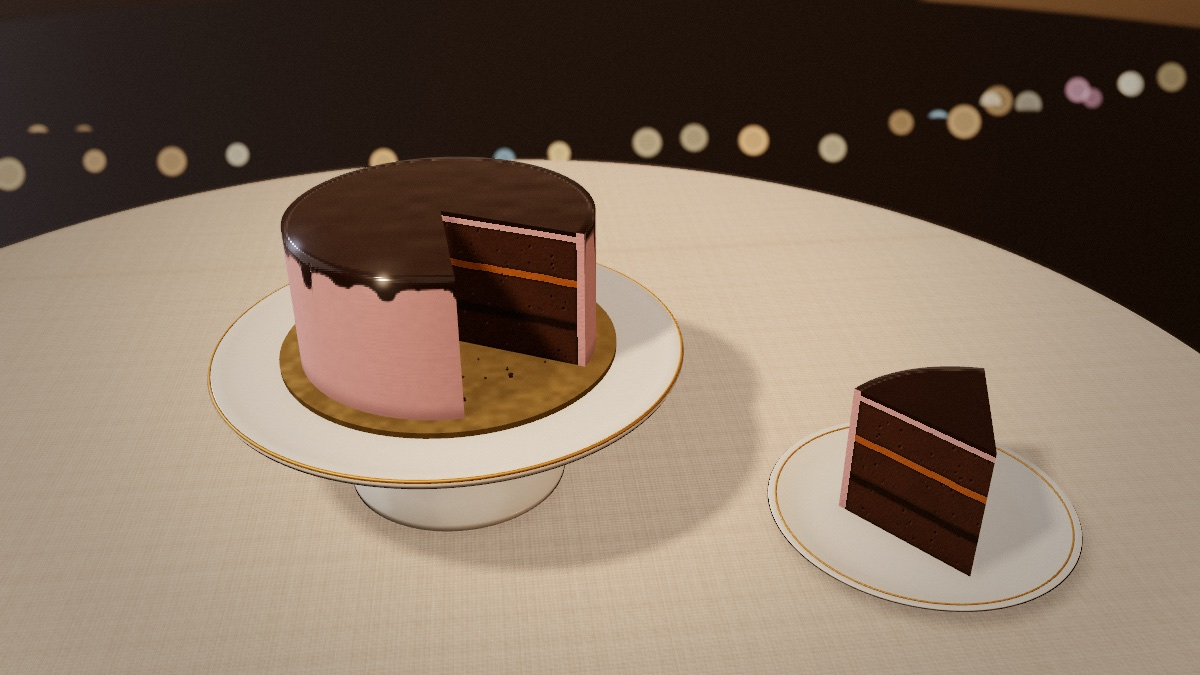
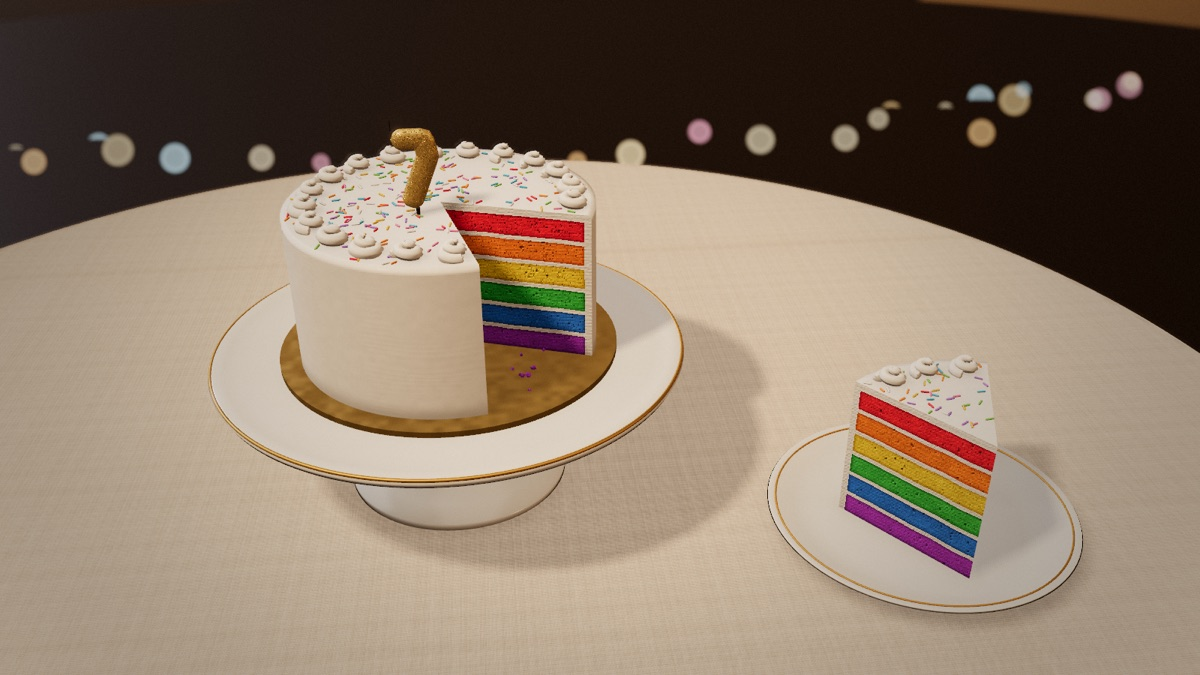
feat(cake-cut): phone order cards, reveal slide, settling confetti, new cover
Orders fit three-across on phones and stack down the left in landscape.
A fresh cut slides open briefly so the split reads, confetti settles on
the cake top, fair accuracy is stricter, and the cover shows a cut
rainbow cake with a slice served. AGENTS.md notes the debug switches.

diff --git a/games/cake-cut/src/main.js b/games/cake-cut/src/main.js
@@ -108,7 +108,7 @@ class App {
     this.crumbs = new Crumbs(q.crumbs, (x, z) => this.supportAt(x, z));
     scene.add(this.crumbs.mesh);
     this.smoke = new Smoke(scene);
-    this.confetti = new Confetti(REDUCED_MOTION.matches ? Math.round(q.confetti / 3) : q.confetti, (x, z) => this.supportAt(x, z));
+    this.confetti = new Confetti(REDUCED_MOTION.matches ? Math.round(q.confetti / 3) : q.confetti, (x, z) => this.supportAt(x, z, true));
     scene.add(this.confetti.mesh);
     this.sparkles = new Sparkles();
     scene.add(this.sparkles.points);
@@ -518,13 +518,14 @@ class App {
       const dur = this.audio.birthday();
       const c = this.mount.getWorldPosition(new THREE.Vector3());
       const n = Math.round(this.confetti.max / 4);
+      // party poppers held up round the table
       for (const [x, z] of [
-        [-0.45, 0.25],
-        [0.5, 0.2],
-        [-0.35, -0.35],
-        [0.4, -0.35],
+        [-0.36, 0.22],
+        [0.4, 0.18],
+        [-0.3, -0.3],
+        [0.34, -0.3],
       ]) {
-        this.confetti.burst(new THREE.Vector3(x, 0.02, z), c, n);
+        this.confetti.burst(new THREE.Vector3(x, 0.16, z), c, n);
       }
       for (let i = 0; i < 6; i++) this.sparkles.emit(c.clone().add(new THREE.Vector3(rand(-0.1, 0.1), this.cake.height + 0.05, rand(-0.1, 0.1))), 4, 0.4);
       this.after(Math.min(2.4, dur * 0.25), () => {
@@ -563,8 +564,9 @@ class App {
     }
     let dev = 0;
     for (let i = 0; i < pieces.length; i++) dev += i < N ? Math.abs(pieces[i] - 1 / N) : pieces[i];
-    const acc = Math.max(0, Math.round((1 - dev / 2) * 1000) / 10);
-    const stars = acc >= 96 ? 3 : acc >= 90 ? 2 : acc >= 80 ? 1 : 0;
+    // every bit of cake given to the wrong guest counts against the score
+    const acc = Math.max(0, Math.round((1 - dev) * 1000) / 10);
+    const stars = acc >= 95 ? 3 : acc >= 88 ? 2 : acc >= 75 ? 1 : 0;
     const key = `mini-games.cake-cut.fair.${N}`;
     const prev = Number(store(key)) || 0;
     if (acc > prev) store(key, acc);
@@ -638,6 +640,7 @@ class App {
   startRush() {
     const pick = (a) => a[Math.floor(Math.random() * a.length)];
     const recipe = pick(CAKES.filter((c) => !this.recipe || c.id !== this.recipe.id));
+    if (!this.savedDecor) this.savedDecor = this.decor;
     this.decor = { ...this.defaultDecor(recipe), message: '' };
     this.decor.candles.kind = 'none';
     this.buildCake({ candles: false });
@@ -815,11 +818,15 @@ class App {
     this.ui.hint('Photo saved');
   }
 
-  // Height of whatever a crumb would land on, in world space.
-  supportAt(x, z) {
+  // Height of whatever a crumb would land on, in world space. Confetti
+  // (`onTop`) also settles on the top of the cake.
+  supportAt(x, z, onTop = false) {
     const r = Math.hypot(x, z);
     if (r < 0.155) {
       const local = this.mount.worldToLocal(new THREE.Vector3(x, MOUNT_Y, z));
+      if (onTop && this.cake && this.cake.outline.sdf(local.x, local.z) < -0.002 && !this.cake.isRemoved([local.x, local.z])) {
+        return MOUNT_Y + this.cake.topAt(local.x, local.z);
+      }
       const onBoard = this.cake && this.cake.outline.sdf(local.x, local.z) < 0.014;
       return onBoard ? MOUNT_Y : STAND_TOP;
     }
@@ -973,6 +980,11 @@ class App {
     if (mode === 'rush') this.startRush();
     else {
       this.rush = null;
+      // back to the player's own cake after a party rush
+      if (this.savedDecor) {
+        this.decor = this.savedDecor;
+        this.savedDecor = null;
+      }
       this.openDecorate();
     }
   }

diff --git a/games/cake-cut/src/cake.js b/games/cake-cut/src/cake.js
@@ -22,6 +22,8 @@ import { createExteriorMaterial, createInteriorMaterial, createSlitUniforms, tie
 
 const SLIT_HALF = 0.0012; // half the width of the gap a blade leaves
 const GAP = 0.0016; // how far a separated piece drifts from its neighbours
+const REVEAL = 0.017; // how far a newly cut piece slides out to show its inside
+const REVEAL_HOLD = 1.5; // seconds it stays out before settling back
 const UP = new THREE.Vector3(0, 1, 0);
 
 export class Cake {
@@ -89,7 +91,8 @@ export class Cake {
     const ux = dx / len;
     const uz = dz / len;
     if (chord) {
-      const far = this.outline.extent * 3;
+      // reach right across the cake from wherever the stroke began
+      const far = Math.hypot(a[0], a[1]) + this.outline.extent * 2;
       const seg = clipSegment([a[0] - ux * far, a[1] - uz * far], [a[0] + ux * far, a[1] + uz * far], this.outline);
       return seg && Math.hypot(seg[1][0] - seg[0][0], seg[1][1] - seg[0][1]) > 0.01 ? seg : null;
     }
@@ -169,6 +172,9 @@ export class Cake {
         group: new THREE.Group(),
         offset: prev ? prev.offset.clone() : new THREE.Vector3(),
         target: new THREE.Vector3(),
+        prevFrac: prev ? prev.frac : null,
+        dir: [0, 0],
+        reveal: 0,
         decorations: [],
       };
       next.push(piece);
@@ -191,8 +197,12 @@ export class Cake {
     for (const p of onCake) {
       const c = p.centroid;
       const d = Math.hypot(c[0], c[1]);
-      if (onCake.length === 1 || (p === biggest && p.frac > 0.5) || d < 1e-4) p.target.set(0, 0, 0);
-      else p.target.set((c[0] / d) * GAP, 0, (c[1] / d) * GAP);
+      const still = onCake.length === 1 || (p === biggest && p.frac > 0.5) || d < 1e-4;
+      p.dir = still ? [0, 0] : [c[0] / d, c[1] / d];
+      // a piece the blade has just cut free slides out to show its layers
+      const fresh = p.prevFrac !== null && Math.abs(p.prevFrac - p.frac) > 1e-3;
+      p.reveal = !still && fresh && p.frac < 0.5 ? REVEAL_HOLD + 0.8 : 0;
+      p.target.set(p.dir[0] * GAP, 0, p.dir[1] * GAP);
       p.group.position.copy(p.offset);
     }
     this.assignDecorations();
@@ -475,9 +485,17 @@ export class Cake {
 
   update(dt) {
     const k = 1 - Math.exp(-dt * 14);
+    const slow = 1 - Math.exp(-dt * 7);
     for (const p of this.pieces) {
       if (p.state !== 'on') continue;
-      p.offset.lerp(p.target, k);
+      if (p.reveal > 0) {
+        // out, hold, then ease back to its place
+        p.reveal = Math.max(0, p.reveal - dt);
+        const out = Math.min(1, p.reveal / 0.8);
+        const d = GAP + REVEAL * out * out * (3 - 2 * out);
+        p.target.set(p.dir[0] * d, 0, p.dir[1] * d);
+      }
+      p.offset.lerp(p.target, p.reveal > 0 ? slow : k);
       p.group.position.copy(p.offset);
     }
   }

diff --git a/games/cake-cut/src/fx.js b/games/cake-cut/src/fx.js
@@ -206,6 +206,8 @@ export class Smoke {
 const CONFETTI_COLOURS = ['#f25f7a', '#f7c948', '#5ec2e8', '#8fd46a', '#b58be8', '#ff9d4d', '#fdf6ec', '#e6c07a'];
 
 // Paper and foil confetti that tumbles, flutters down and settles.
+const H_DRAG = 1.6; // sideways drag on confetti
+
 export class Confetti {
   constructor(max, supportAt) {
     this.max = max;
@@ -230,10 +232,10 @@ export class Confetti {
     for (let k = 0; k < n; k++) {
       const i = this.next;
       this.next = (this.next + 1) % this.max;
-      const speed = 2.2 + Math.random() * 1.6;
-      const v = new THREE.Vector3((dir.x / flat) * 0.9 + (Math.random() - 0.5) * 0.9, 2.2 + Math.random() * 1.4, (dir.z / flat) * 0.9 + (Math.random() - 0.5) * 0.9)
-        .normalize()
-        .multiplyScalar(speed);
+      // aimed so the paper spreads from short of the target to beyond it
+      const reach = flat * H_DRAG * (0.45 + Math.random() * 1.1);
+      const side = (Math.random() - 0.5) * 0.9;
+      const v = new THREE.Vector3((dir.x / flat) * reach - (dir.z / flat) * side, 1.5 + Math.random() * 1.1, (dir.z / flat) * reach + (dir.x / flat) * side);
       this.items[i] = {
         p: from.clone(),
         v,
@@ -257,18 +259,27 @@ export class Confetti {
 
   update(dt) {
     if (!this.items.length) return;
+    this.tick = (this.tick || 0) + 1;
     for (let i = 0; i < this.items.length; i++) {
       const c = this.items[i];
       if (!c) continue;
       c.age += dt;
+      // paper resting up on the cake falls again if its slice is taken away
+      if (c.rest && c.p.y > 0.12 && (i + this.tick) % 8 === 0 && this.supportAt(c.p.x, c.p.z) + 0.003 < c.p.y) {
+        c.rest = false;
+        c.v.set(0, 0, 0);
+      }
       if (!c.rest) {
         c.v.y -= 9.8 * dt;
         // paper falls slowly: strong drag, and it flutters side to side
-        const drag = c.v.y < 0 ? 5.5 : 1.2;
-        c.v.multiplyScalar(Math.exp(-dt * drag));
+        c.v.y *= Math.exp(-dt * (c.v.y < 0 ? 26 : 2.2));
+        const h = Math.exp(-dt * H_DRAG);
+        c.v.x *= h;
+        c.v.z *= h;
         c.p.addScaledVector(c.v, dt);
-        c.p.x += Math.sin(c.age * 7 + c.phase) * 0.12 * dt;
-        c.p.z += Math.cos(c.age * 5 + c.phase) * 0.1 * dt;
+        const flutter = c.v.y < 0 ? 1 : 0.3;
+        c.p.x += Math.sin(c.age * 6 + c.phase) * 0.16 * flutter * dt;
+        c.p.z += Math.cos(c.age * 4.3 + c.phase) * 0.13 * flutter * dt;
         c.rot.x += c.spin.x * dt;
         c.rot.y += c.spin.y * dt;
         c.rot.z += c.spin.z * dt;

diff --git a/games/cake-cut/style.css b/games/cake-cut/style.css
@@ -976,7 +976,12 @@ legend small {
   font-size: clamp(24px, 5vw, 38px);
   text-shadow: 0 3px 18px rgba(0, 0, 0, 0.6);
   white-space: nowrap;
-  animation: rise 1.4s ease forwards;
+  padding: 6px 22px 8px;
+  border-radius: 20px;
+  background: rgba(34, 20, 13, 0.5);
+  backdrop-filter: blur(6px);
+  -webkit-backdrop-filter: blur(6px);
+  animation: rise 2.2s ease forwards;
 }
 
 .callout small {
@@ -996,11 +1001,11 @@ legend small {
     opacity: 0;
     transform: translate(-50%, 14px) scale(0.9);
   }
-  15% {
+  10% {
     opacity: 1;
     transform: translate(-50%, 0) scale(1.04);
   }
-  75% {
+  80% {
     opacity: 1;
   }
   100% {
@@ -1136,18 +1141,38 @@ body[data-state='result'] #scene {
   .title {
     display: none;
   }
+  /* three orders share a phone's width: icon and name on one line, the
+     order underneath so nothing wraps or clips */
   .orders {
     top: calc(62px + var(--safe-t));
+    left: calc(10px + var(--safe-l));
+    right: calc(10px + var(--safe-r));
+    transform: none;
+    justify-content: center;
     gap: 5px;
   }
   .order {
+    flex: 0 1 124px;
     min-width: 0;
-    grid-template-columns: 30px auto;
-    padding: 6px 9px 8px 6px;
+    grid-template-columns: 22px minmax(0, 1fr);
+    column-gap: 6px;
+    row-gap: 1px;
+    padding: 6px 8px 8px;
   }
   .order svg {
-    width: 30px;
-    height: 30px;
+    width: 22px;
+    height: 22px;
+    grid-row: auto;
+  }
+  .order .who,
+  .order .what {
+    white-space: nowrap;
+    overflow: hidden;
+    text-overflow: ellipsis;
+  }
+  .order .what {
+    grid-column: 1 / -1;
+    font-size: 11.5px;
   }
   .bigbtn {
     min-height: 52px;
@@ -1187,6 +1212,23 @@ body[data-state='result'] #scene {
   }
   .lede {
     margin-bottom: 10px;
+  }
+  /* landscape phone: stack the orders down the left so they leave the cake clear */
+  .orders {
+    top: calc(62px + var(--safe-t));
+    left: calc(12px + var(--safe-l));
+    transform: none;
+    flex-direction: column;
+    gap: 5px;
+  }
+  .order {
+    min-width: 138px;
+    grid-template-columns: 30px auto;
+    padding: 5px 10px 7px 6px;
+  }
+  .order svg {
+    width: 30px;
+    height: 30px;
   }
 }
 

diff --git a/games/cake-cut/src/ui.js b/games/cake-cut/src/ui.js
@@ -391,7 +391,7 @@ export class UI {
       d.append(s);
     }
     this.el.callouts.append(d);
-    setTimeout(() => d.remove(), 1450);
+    setTimeout(() => d.remove(), 2250);
   }
 
   // ------------------------------------------------------------ results

diff --git a/AGENTS.md b/AGENTS.md
@@ -9,6 +9,7 @@ This file is the project's committed home for project-intrinsic agent knowledge:
 - Shared libraries are vendored once, pinned and unmodified, under `vendor/<lib>/` with their licence, and loaded through an import map in the game's `index.html`. Record version and checksums in `vendor/<lib>/README.md` and `LICENSES.md`.
 - Art and sound must be procedural or CC0, noted in `LICENSES.md`. Reference images supplied for a design are not committed.
 - Balloon Pop debug switches: `?debug` exposes `window.__bp` (freeze, step(ms), popFirst, spawn), `?cover` hides UI, `?quality=high|medium|low`, `?msaa=N`, `?shadows=0`. See `games/balloon-pop/src/main.js` and `src/quality.js`.
+- Cake Cut debug switches: `?debug` exposes `window.__cc` (freeze, thaw, step(ms), cut, stroke, lift, setCake, decor, blowOut, pieces), `?cover` hides UI, `?cake=<id>`, plus `?quality=`, `?msaa=`, `?shadows=0`, `?ao=0`, `?dof=0`. See the end of `games/cake-cut/src/main.js` and `src/quality.js`.
 
 ## Maintaining this file
 
